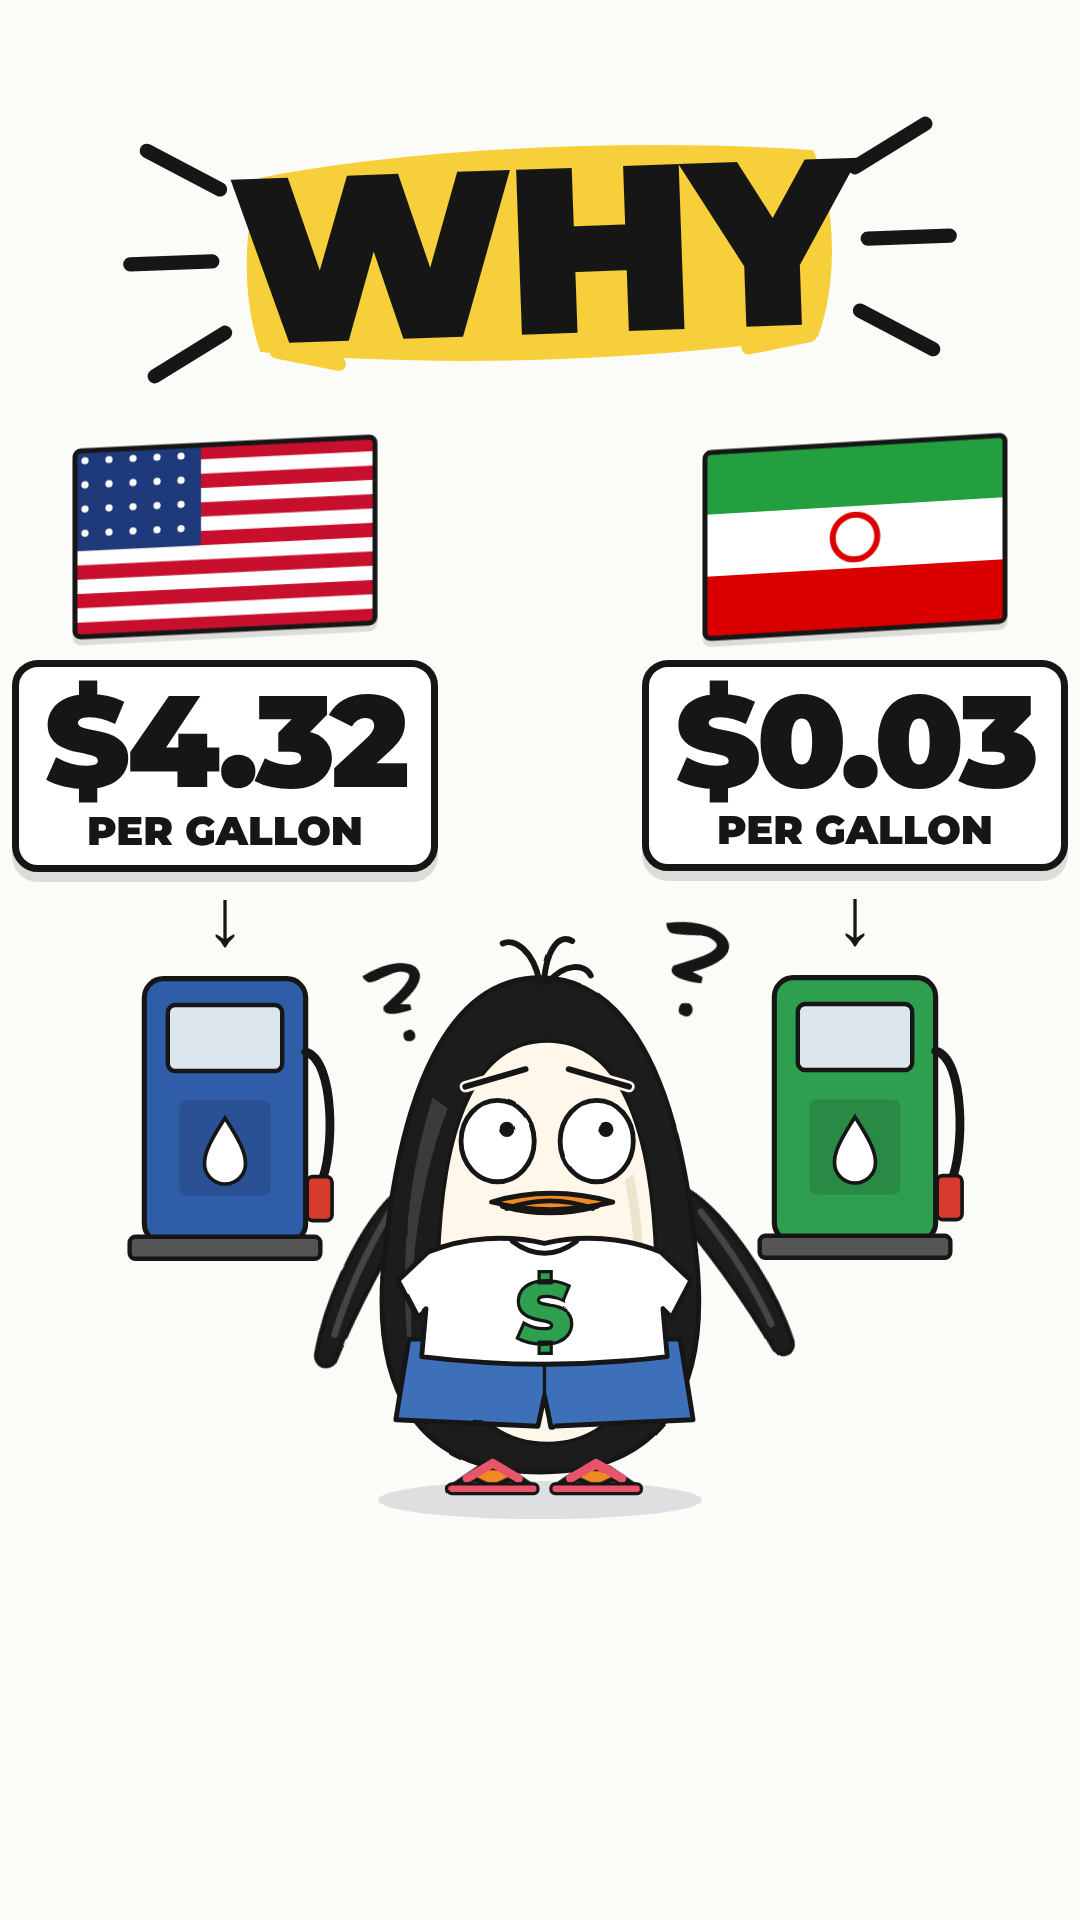
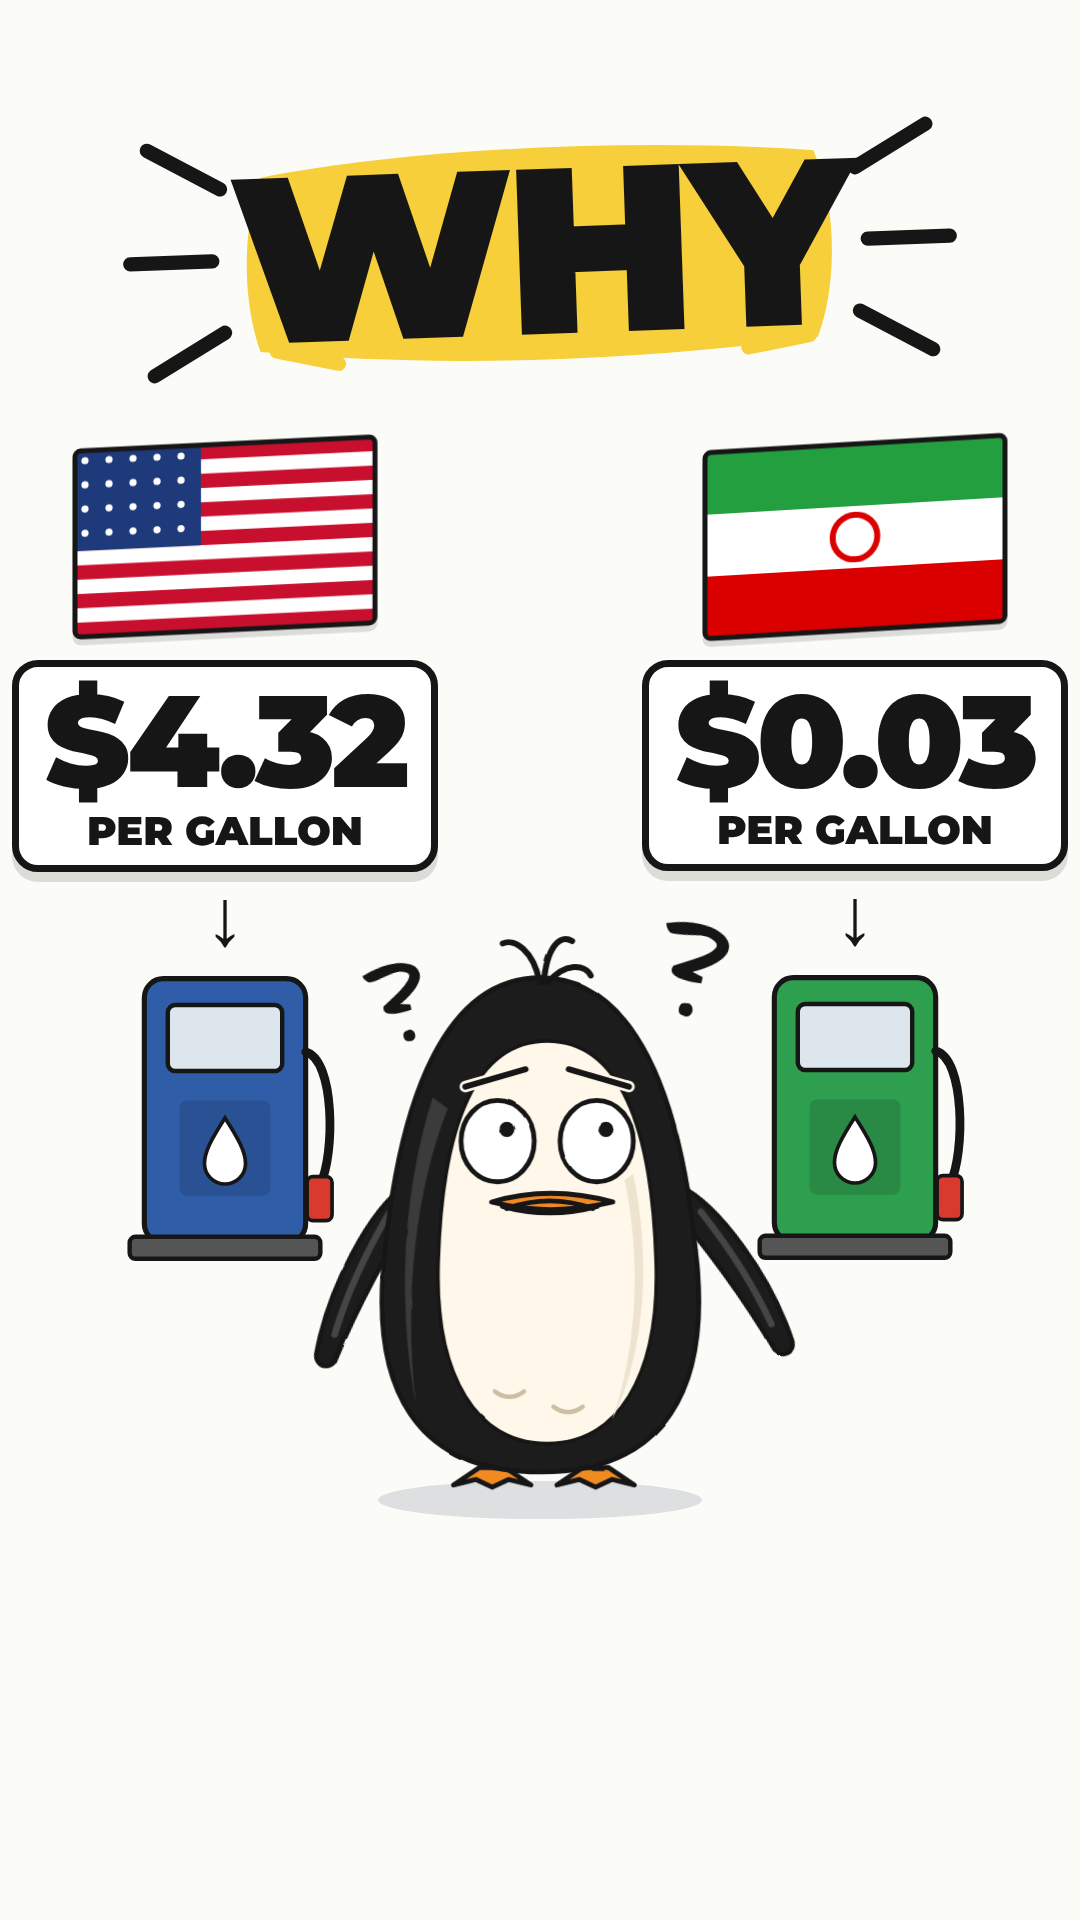
WHY hook: plain Doug, no outfit (user)
Claude-Session: https://claude.ai/code/session_01TpxkbLAeDEzMwkLhjRXMiW

Changed region(s): [[0.3667, 0.625, 0.6417, 0.7812]]

diff --git a/studio/src/penguin/whyHook.tsx b/studio/src/penguin/whyHook.tsx
@@ -83,7 +83,7 @@ export const WhyHook = ({left, right, word = 'WHY'}: {left: HookSide; right: Hoo
     <Side side={left} x={225} y={440} t={t} phase={0} />
     <Side side={right} x={855} y={440} t={t} phase={1.7} />
     {/* confused Doug in the middle: casual clothes, flipper up, eyes rolled up, ? marks */}
-    <Penguin x={540} y={1500} h={560} id="hookDoug" outfit="casual"
+    <Penguin x={540} y={1500} h={560} id="hookDoug"
       pose={{brows: 'worried', look: [0.5, -0.7], flapR: 22, flapL: 14, beak: 'frown', turn: 0.15}} />
     {[{x: 400, y: 1000, r: -14, s: 0.85}, {x: 690, y: 975, r: 12, s: 1}].map((q, i) =>
       <div key={i} style={{position: 'absolute', left: q.x, top: q.y + Math.sin(t * 3 + i * 2) * 10, transform: `translate(-50%,-50%) rotate(${q.r}deg) scale(${q.s})`,
